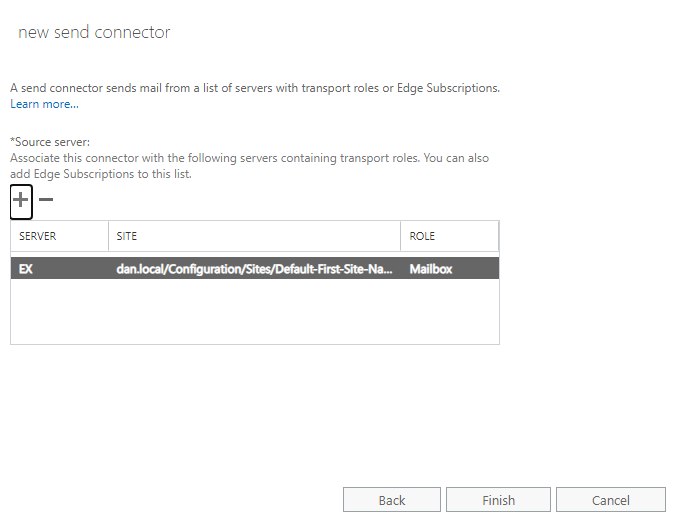
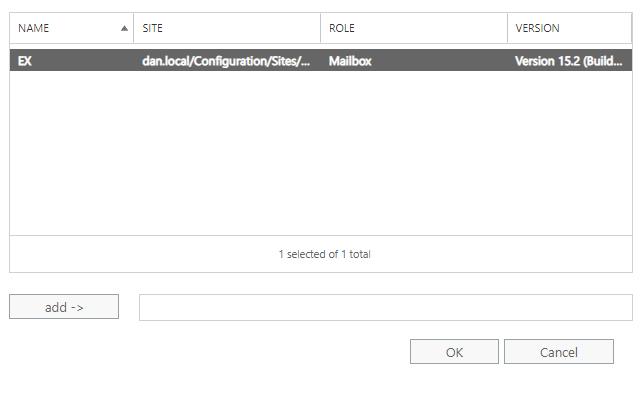
x
x

diff --git a/content/posts/Exchange 2019/index.md b/content/posts/Exchange 2019/index.md
@@ -281,21 +281,87 @@ Test send messege to check if all ok
 ![img59](images/59.png)
 
 
-### Sender Agent and External Site
+### Sender Agent
 
+Mail flow > + 
 ![img60](images/60.png)
 
+create for sender for my local domain
 ![img61](images/61.png)
 
+ choice mx record and next
 ![img62](images/62.png)
 
+press `+` and and choice smtp record
 ![img63](images/63.png)
 
+`*` for all domains
 ![img64](images/64.png)
 
+Next
 ![img65](images/65.png)
+Add server `+` 
+![img66](images/66.png)
 
-![img6](images/66.png)
+choice add `dan.local` and OK and Finish
+![img67](images/67.png)
+
+Done!
+![img68](images/68.png)
+
+
+ ## External Domain 
+
+ecp my external name his `641514.cc`
+![img69](images/69.png)
+
+ews my external name his `641514.cc`
+![img70](images/70.png)
+
+mapi my external name his `641514.cc`
+![img71](images/71.png)
+
+Active Sync my external mame his `641514.cc`
+![img72](images/72.png)
+
+OAB my external mame his `641514.cc`
+![img73](images/73.png)
+
+owa my external mame his `641514.cc`
+![img74](images/74.png)
+
+
+* ECP (Exchange Control Panel) — its web server for Administration Microsoft Exchange Server
+
+* EWS (Exchange Web Services) is a web service provided by Microsoft Exchange Server that allows applications to communicate with the Exchange server through a programmatic interface. EWS provides access to various Exchange features, including managing email, calendars, contacts, tasks, and other data.
+
+* MAPI (Messaging Application Programming Interface) is an application programming interface developed by Microsoft that allows client applications to exchange messages, interact with email, calendars, and other functions of servers such as Microsoft Exchange Server.
+
+* Exchange ActiveSync (EAS) is a synchronization protocol developed by Microsoft for accessing mail, calendars, contacts, tasks, and notes on mobile devices. It provides communication between a server (for example, Microsoft Exchange Server) and a client device (smartphone, tablet, or email client). EAS is the primary protocol for integrating Exchange with mobile devices.
+
+* OAB (Offline Address Book) is an offline address book used in Microsoft Exchange Server. OAB allows Microsoft Outlook users to work with their organization's address book without connecting to a server. This is especially useful when you are not connected to the Internet or in situations where you want to minimize the load on the Exchange server.
+
+* OWA (Outlook Web App) is a web application developed by Microsoft for accessing mail, calendar, contacts and tasks through a browser. OWA is a component of Microsoft Exchange Server that allows users to experience business email and other Exchange features without installing a client application such as Microsoft Outlook.
+
+### DNS
+
+|            |          |       IP       |
+| ----------- | ----------- | -------------- |
+|  A          | @ |  75.10.52.21   |
+| A  | ex | 75.10.52.21 |
+| MX | @ | ex.641514.cc |
+| TXT | @ | v=spf1 a mx ~all |
+| TXT | _dmarc | v=DMARC1; p=none |
+
+
+
+
+
+
+
+
+
+
 
 
 
